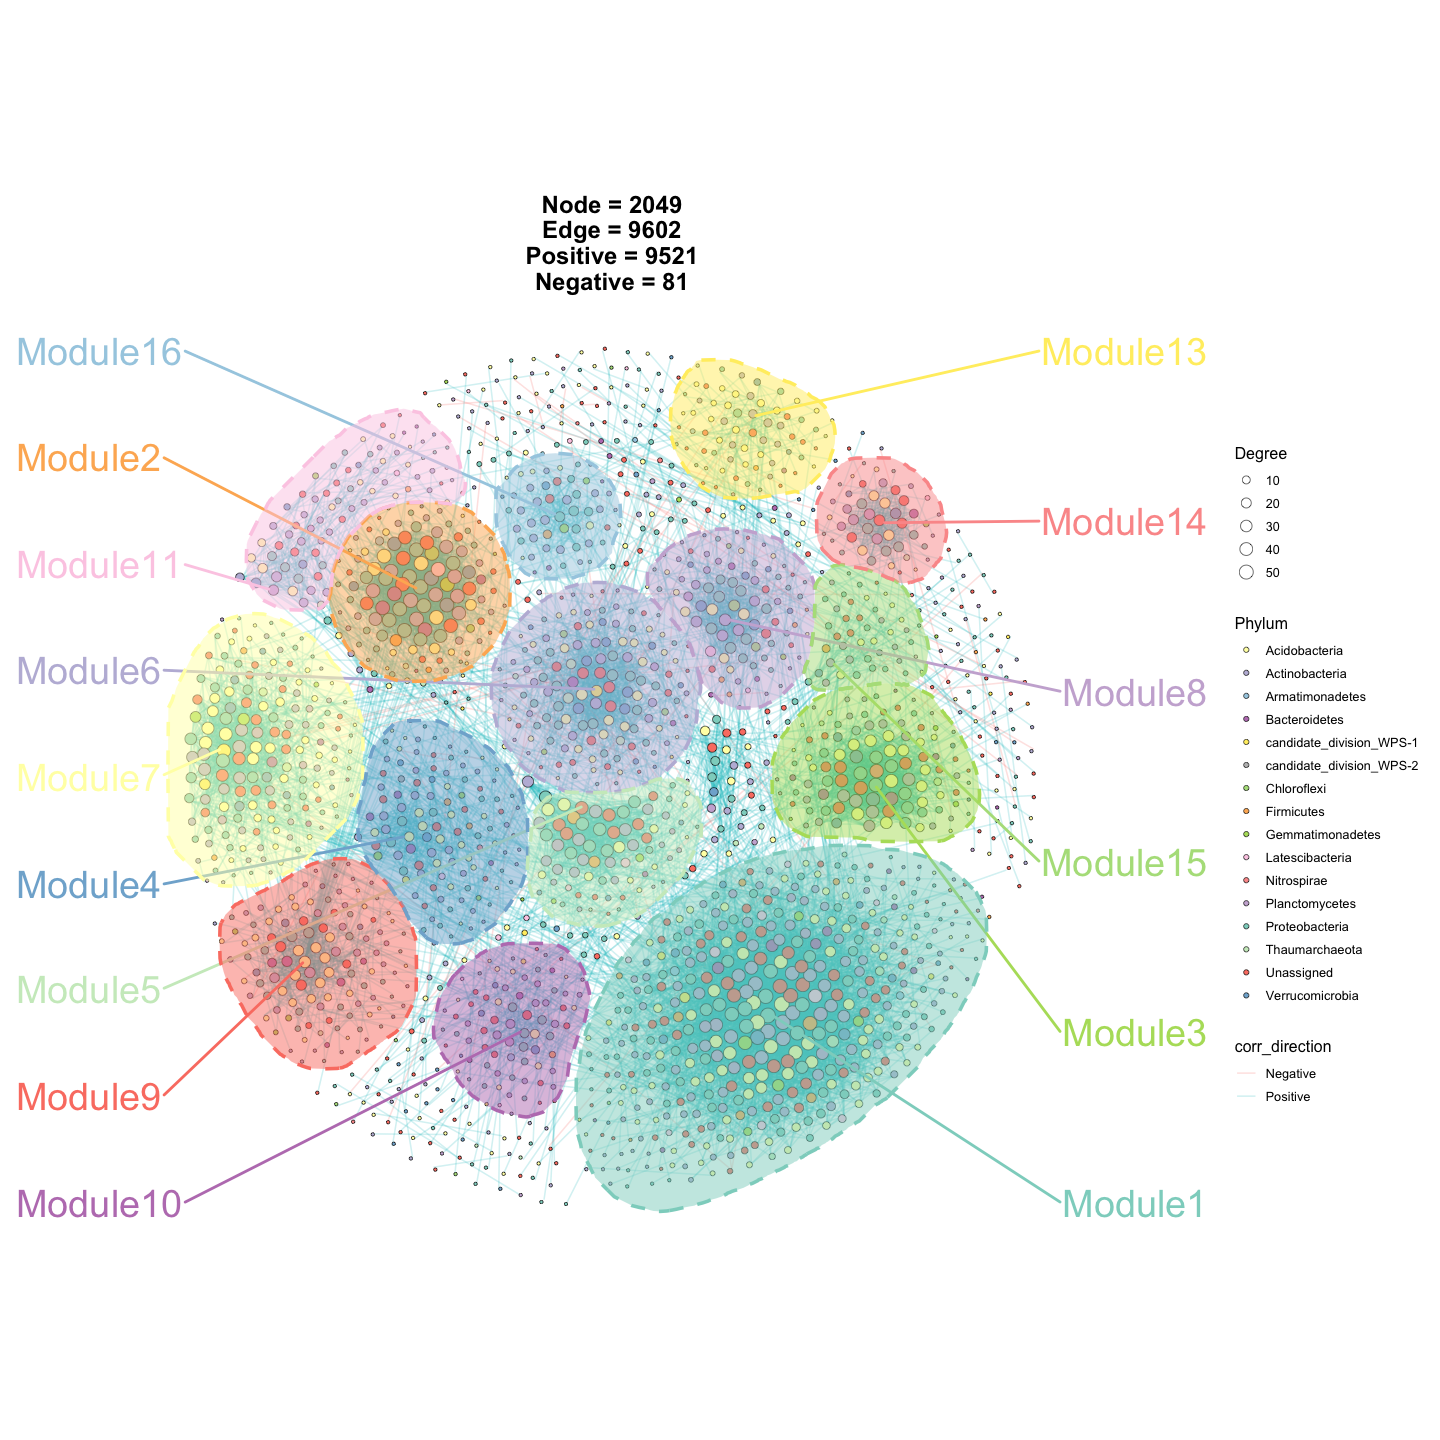
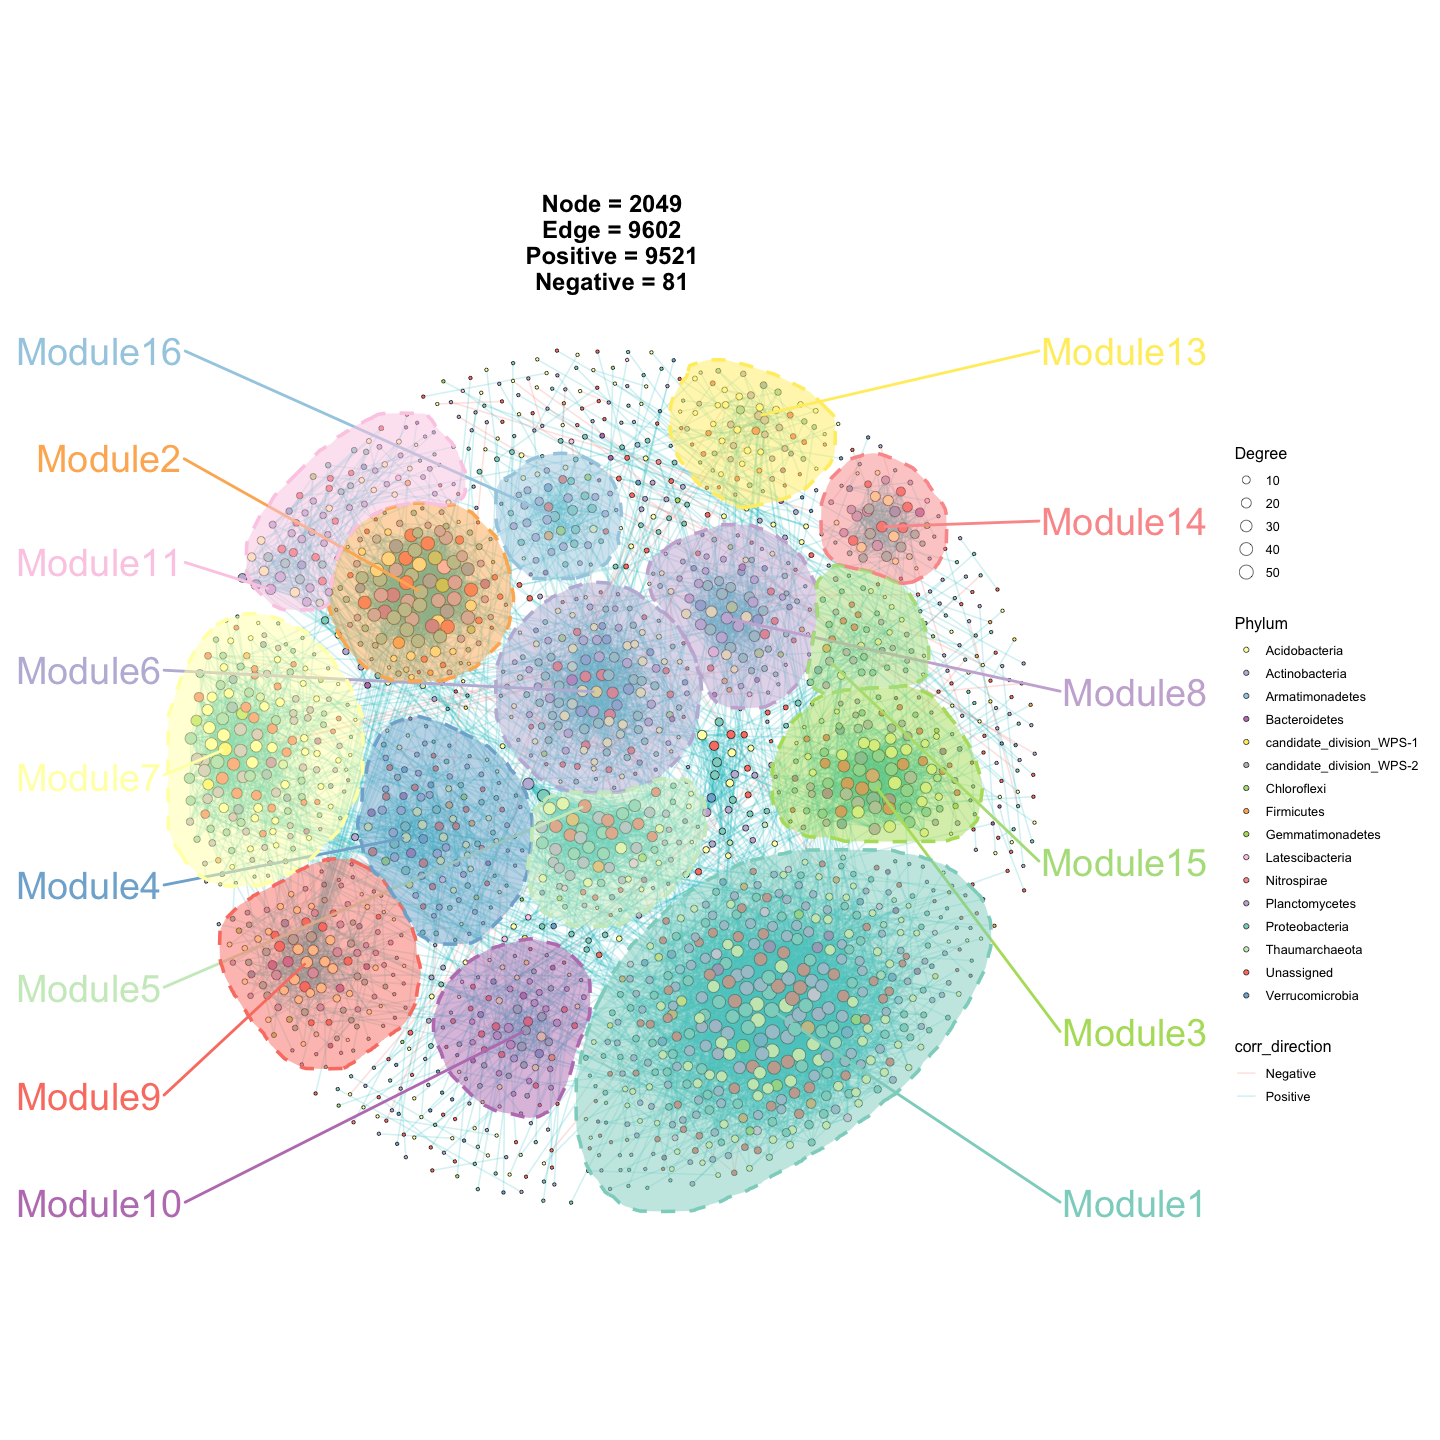
Update README

diff --git a/README.md b/README.md
@@ -44,7 +44,7 @@ library(ggNetView)
 #>  ░███████   ░███████
 #> 
 #> 
-#>   ggNetView v0.1.0 (2025)
+#>   ggNetView v1.1.1 (2026)
 #>   Developed by Jiawang's Network Visualization Group
 #> 
 #>   Maintainers:
@@ -159,7 +159,7 @@ p1 <- ggNetView(
 p1
 ```
 
-<img src="man/figures/README-unnamed-chunk-8-1.png" width="100%" style="display: block; margin: auto;" />
+<img src="man/figures/README-unnamed-chunk-8-1.png" alt="" width="100%" style="display: block; margin: auto;" />
 
 ``` r
 p2 <- ggNetView(
@@ -189,7 +189,7 @@ p2
 #> data's fill values.
 ```
 
-<img src="man/figures/README-unnamed-chunk-9-1.png" width="100%" style="display: block; margin: auto;" />
+<img src="man/figures/README-unnamed-chunk-9-1.png" alt="" width="100%" style="display: block; margin: auto;" />
 
 ``` r
 p3 <- ggNetView(
@@ -219,7 +219,7 @@ p3
 #> data's fill values.
 ```
 
-<img src="man/figures/README-unnamed-chunk-10-1.png" width="100%" style="display: block; margin: auto;" />
+<img src="man/figures/README-unnamed-chunk-10-1.png" alt="" width="100%" style="display: block; margin: auto;" />
 
 ### Step5: save plot
 
@@ -268,7 +268,7 @@ out1 <- gglink_heatmaps(
 out1[[1]]
 ```
 
-<img src="man/figures/README-unnamed-chunk-12-1.png" width="100%" style="display: block; margin: auto;" />
+<img src="man/figures/README-unnamed-chunk-12-1.png" alt="" width="100%" style="display: block; margin: auto;" />
 
 ## Example3
 
@@ -292,7 +292,7 @@ out2 <- gglink_heatmaps(
 out2[[2]]
 ```
 
-<img src="man/figures/README-unnamed-chunk-13-1.png" width="100%" style="display: block; margin: auto;" />
+<img src="man/figures/README-unnamed-chunk-13-1.png" alt="" width="100%" style="display: block; margin: auto;" />
 
 ## sessionInfo
 
@@ -316,49 +316,49 @@ sessionInfo()
 #> [1] stats     graphics  grDevices utils     datasets  methods   base     
 #> 
 #> other attached packages:
-#> [1] ggnewscale_0.5.2 ggplot2_4.0.1    ggNetView_0.1.0 
+#> [1] ggnewscale_0.5.2 ggplot2_4.0.1    ggNetView_1.1.1 
 #> 
 #> loaded via a namespace (and not attached):
-#>   [1] mnormt_2.1.1            DBI_1.2.3               deldir_2.0-4           
-#>   [4] gridExtra_2.3           rlang_1.1.6             magrittr_2.0.4         
-#>   [7] spatstat.geom_3.6-0     matrixStats_1.5.0       compiler_4.5.1         
-#>  [10] RSQLite_2.4.3           png_0.1-8               vctrs_0.6.5            
-#>  [13] stringr_1.6.0           pkgconfig_2.0.3         crayon_1.5.3           
-#>  [16] fastmap_1.2.0           backports_1.5.0         XVector_0.48.0         
-#>  [19] labeling_0.4.3          ggraph_2.2.2            utf8_1.2.6             
-#>  [22] rmarkdown_2.30          UCSC.utils_1.4.0        preprocessCore_1.70.0  
-#>  [25] purrr_1.2.0             bit_4.6.0               xfun_0.54              
-#>  [28] cachem_1.1.0            GenomeInfoDb_1.44.3     jsonlite_2.0.0         
-#>  [31] goftest_1.2-3           blob_1.2.4              spatstat.utils_3.2-0   
-#>  [34] tweenr_2.0.3            psych_2.5.6             parallel_4.5.1         
-#>  [37] cluster_2.1.8.1         R6_2.6.1                spatstat.data_3.1-8    
-#>  [40] stringi_1.8.7           RColorBrewer_1.1-3      spatstat.univar_3.1-4  
-#>  [43] rpart_4.1.24            Rcpp_1.1.0              iterators_1.0.14       
-#>  [46] knitr_1.50              tensor_1.5.1            WGCNA_1.73             
-#>  [49] base64enc_0.1-3         IRanges_2.42.0          FNN_1.1.4.1            
-#>  [52] Matrix_1.7-4            splines_4.5.1           nnet_7.3-20            
-#>  [55] igraph_2.2.1            tidyselect_1.2.1        abind_1.4-8            
-#>  [58] viridis_0.6.5           rstudioapi_0.17.1       dichromat_2.0-0.1      
-#>  [61] yaml_2.3.10             spatstat.random_3.4-2   spatstat.explore_3.5-3 
-#>  [64] doParallel_1.0.17       codetools_0.2-20        lattice_0.22-7         
-#>  [67] tibble_3.3.0            Biobase_2.68.0          withr_3.0.2            
-#>  [70] KEGGREST_1.48.1         S7_0.2.1                evaluate_1.0.5         
-#>  [73] foreign_0.8-90          survival_3.8-3          polyclip_1.10-7        
-#>  [76] Biostrings_2.76.0       pillar_1.11.1           checkmate_2.3.3        
-#>  [79] foreach_1.5.2           stats4_4.5.1            generics_0.1.4         
-#>  [82] S4Vectors_0.46.0        scales_1.4.0            glue_1.8.0             
-#>  [85] Hmisc_5.2-4             tools_4.5.1             data.table_1.17.8      
-#>  [88] graphlayouts_1.2.2      fastcluster_1.3.0       tidygraph_1.3.1        
-#>  [91] grid_4.5.1              impute_1.82.0           tidyr_1.3.1            
-#>  [94] AnnotationDbi_1.70.0    colorspace_2.1-2        nlme_3.1-168           
-#>  [97] GenomeInfoDbData_1.2.14 ggforce_0.5.0           htmlTable_2.4.3        
-#> [100] Formula_1.2-5           cli_3.6.5               spatstat.sparse_3.1-0  
-#> [103] mascarade_0.2.1         viridisLite_0.4.2       dplyr_1.1.4            
-#> [106] gtable_0.3.6            dynamicTreeCut_1.63-1   digest_0.6.39          
-#> [109] BiocGenerics_0.54.0     ggrepel_0.9.6           htmlwidgets_1.6.4      
-#> [112] farver_2.1.2            memoise_2.0.1           htmltools_0.5.8.1      
-#> [115] multtest_2.64.0         lifecycle_1.0.4         httr_1.4.7             
-#> [118] GO.db_3.21.0            bit64_4.6.0-1           MASS_7.3-65
+#>   [1] mnormt_2.1.1           DBI_1.2.3              deldir_2.0-4          
+#>   [4] gridExtra_2.3          rlang_1.1.6            magrittr_2.0.4        
+#>   [7] otel_0.2.0             spatstat.geom_3.6-1    matrixStats_1.5.0     
+#>  [10] compiler_4.5.1         RSQLite_2.4.5          png_0.1-8             
+#>  [13] vctrs_0.6.5            stringr_1.6.0          pkgconfig_2.0.3       
+#>  [16] crayon_1.5.3           fastmap_1.2.0          backports_1.5.0       
+#>  [19] XVector_0.50.0         labeling_0.4.3         ggraph_2.2.2          
+#>  [22] utf8_1.2.6             rmarkdown_2.30         preprocessCore_1.70.0 
+#>  [25] purrr_1.2.0            bit_4.6.0              xfun_0.55             
+#>  [28] cachem_1.1.0           goftest_1.2-3          blob_1.2.4            
+#>  [31] spatstat.utils_3.2-0   tweenr_2.0.3           psych_2.5.6           
+#>  [34] parallel_4.5.1         cluster_2.1.8.1        R6_2.6.1              
+#>  [37] spatstat.data_3.1-9    stringi_1.8.7          RColorBrewer_1.1-3    
+#>  [40] spatstat.univar_3.1-5  rpart_4.1.24           Rcpp_1.1.0            
+#>  [43] Seqinfo_1.0.0          iterators_1.0.14       knitr_1.51            
+#>  [46] tensor_1.5.1           WGCNA_1.73             base64enc_0.1-3       
+#>  [49] IRanges_2.44.0         FNN_1.1.4.1            Matrix_1.7-4          
+#>  [52] splines_4.5.1          nnet_7.3-20            igraph_2.2.1          
+#>  [55] tidyselect_1.2.1       abind_1.4-8            rstudioapi_0.17.1     
+#>  [58] dichromat_2.0-0.1      yaml_2.3.12            viridis_0.6.5         
+#>  [61] spatstat.random_3.4-3  spatstat.explore_3.6-0 doParallel_1.0.17     
+#>  [64] codetools_0.2-20       lattice_0.22-7         tibble_3.3.0          
+#>  [67] Biobase_2.70.0         withr_3.0.2            KEGGREST_1.50.0       
+#>  [70] S7_0.2.1               evaluate_1.0.5         foreign_0.8-90        
+#>  [73] survival_3.8-3         polyclip_1.10-7        Biostrings_2.78.0     
+#>  [76] pillar_1.11.1          checkmate_2.3.3        foreach_1.5.2         
+#>  [79] stats4_4.5.1           generics_0.1.4         S4Vectors_0.48.0      
+#>  [82] scales_1.4.0           glue_1.8.0             Hmisc_5.2-4           
+#>  [85] tools_4.5.1            data.table_1.18.0      fastcluster_1.3.0     
+#>  [88] graphlayouts_1.2.2     tidygraph_1.3.1        grid_4.5.1            
+#>  [91] impute_1.82.0          tidyr_1.3.2            AnnotationDbi_1.72.0  
+#>  [94] colorspace_2.1-2       nlme_3.1-168           ggforce_0.5.0         
+#>  [97] htmlTable_2.4.3        Formula_1.2-5          cli_3.6.5             
+#> [100] spatstat.sparse_3.1-0  mascarade_0.2.999      viridisLite_0.4.2     
+#> [103] dplyr_1.1.4            gtable_0.3.6           dynamicTreeCut_1.63-1 
+#> [106] digest_0.6.39          BiocGenerics_0.56.0    ggrepel_0.9.6         
+#> [109] htmlwidgets_1.6.4      farver_2.1.2           memoise_2.0.1         
+#> [112] htmltools_0.5.9        multtest_2.64.0        lifecycle_1.0.4       
+#> [115] httr_1.4.7             GO.db_3.22.0           bit64_4.6.0-1         
+#> [118] MASS_7.3-65
 ```
 
 #### Citation